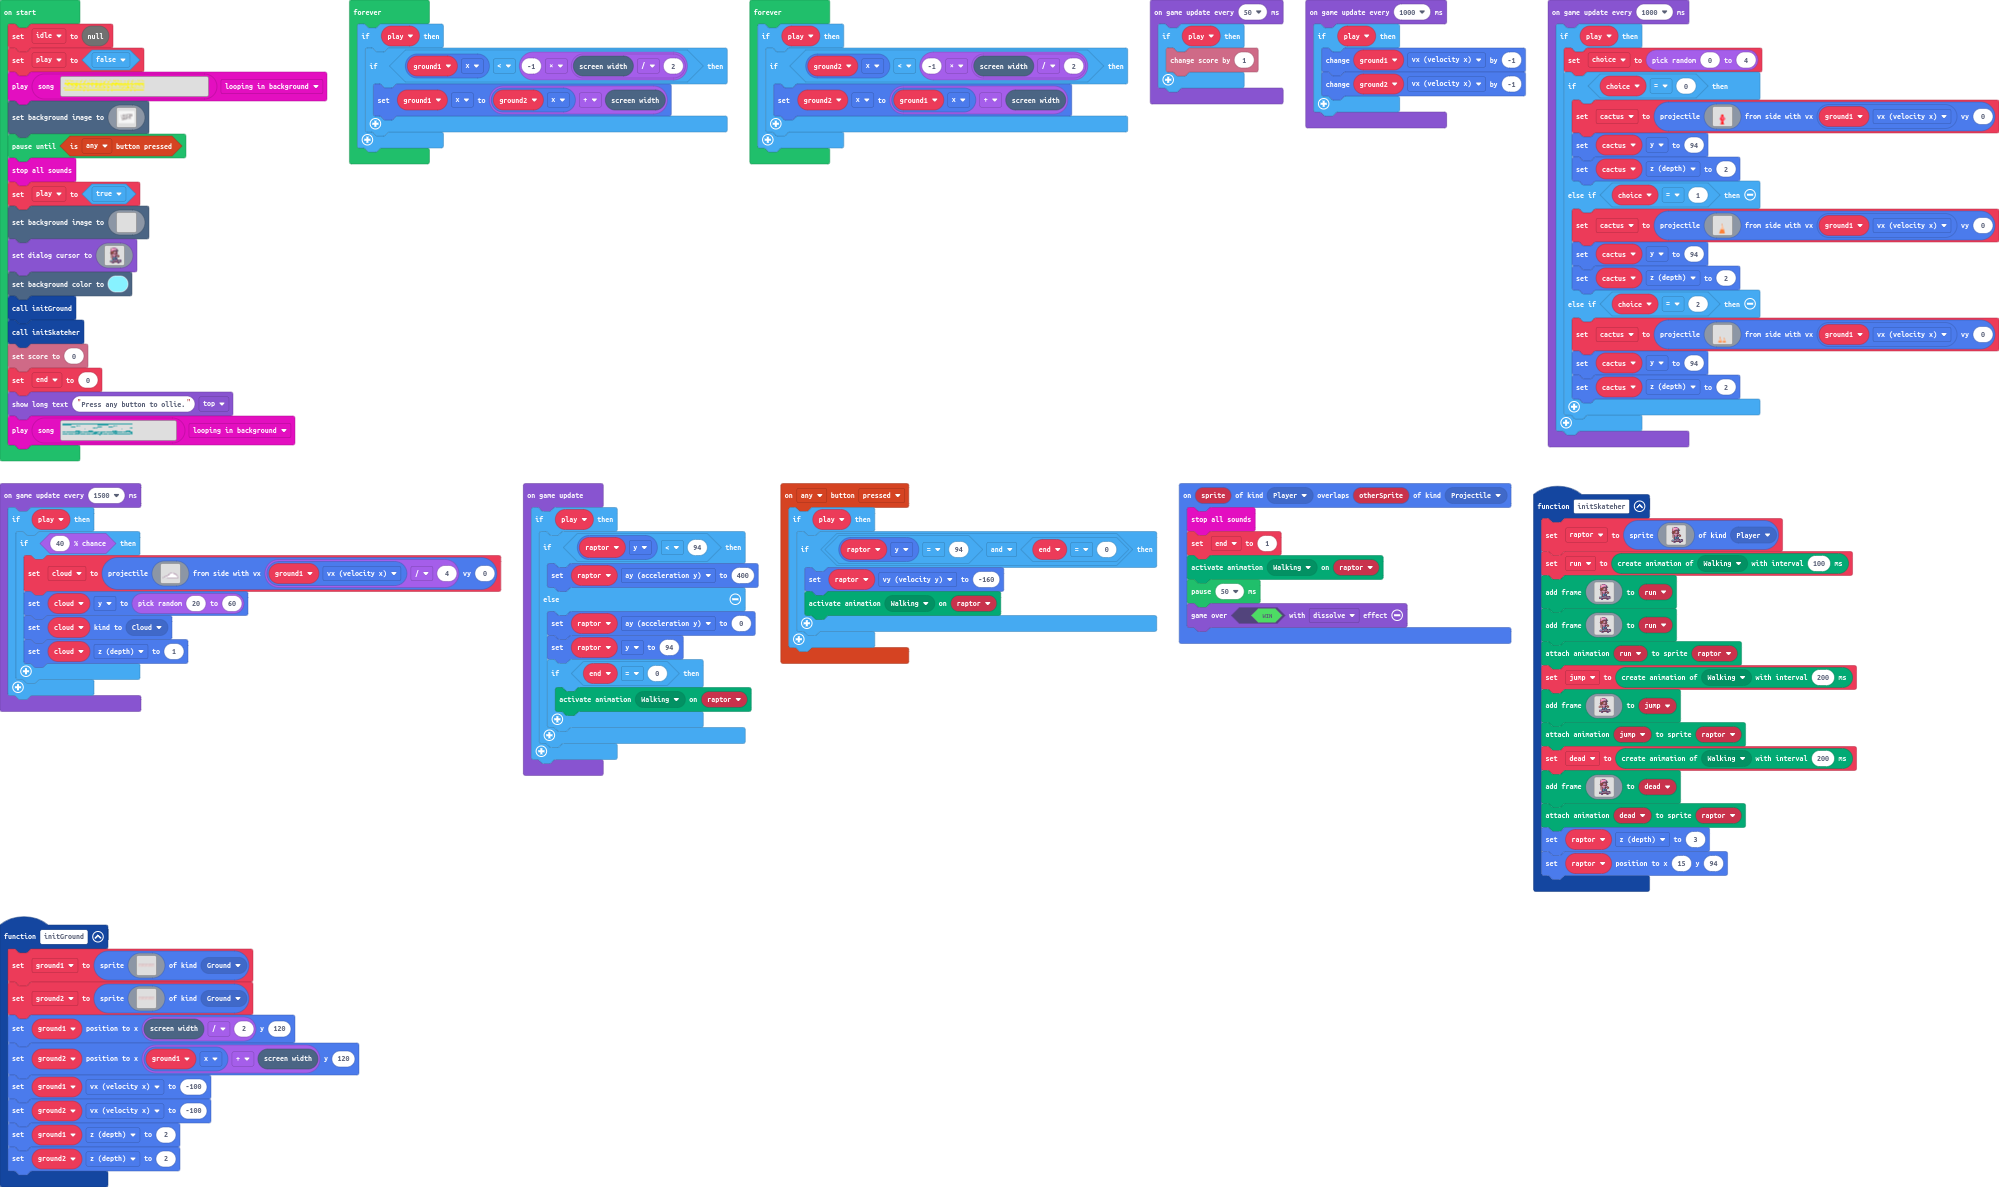
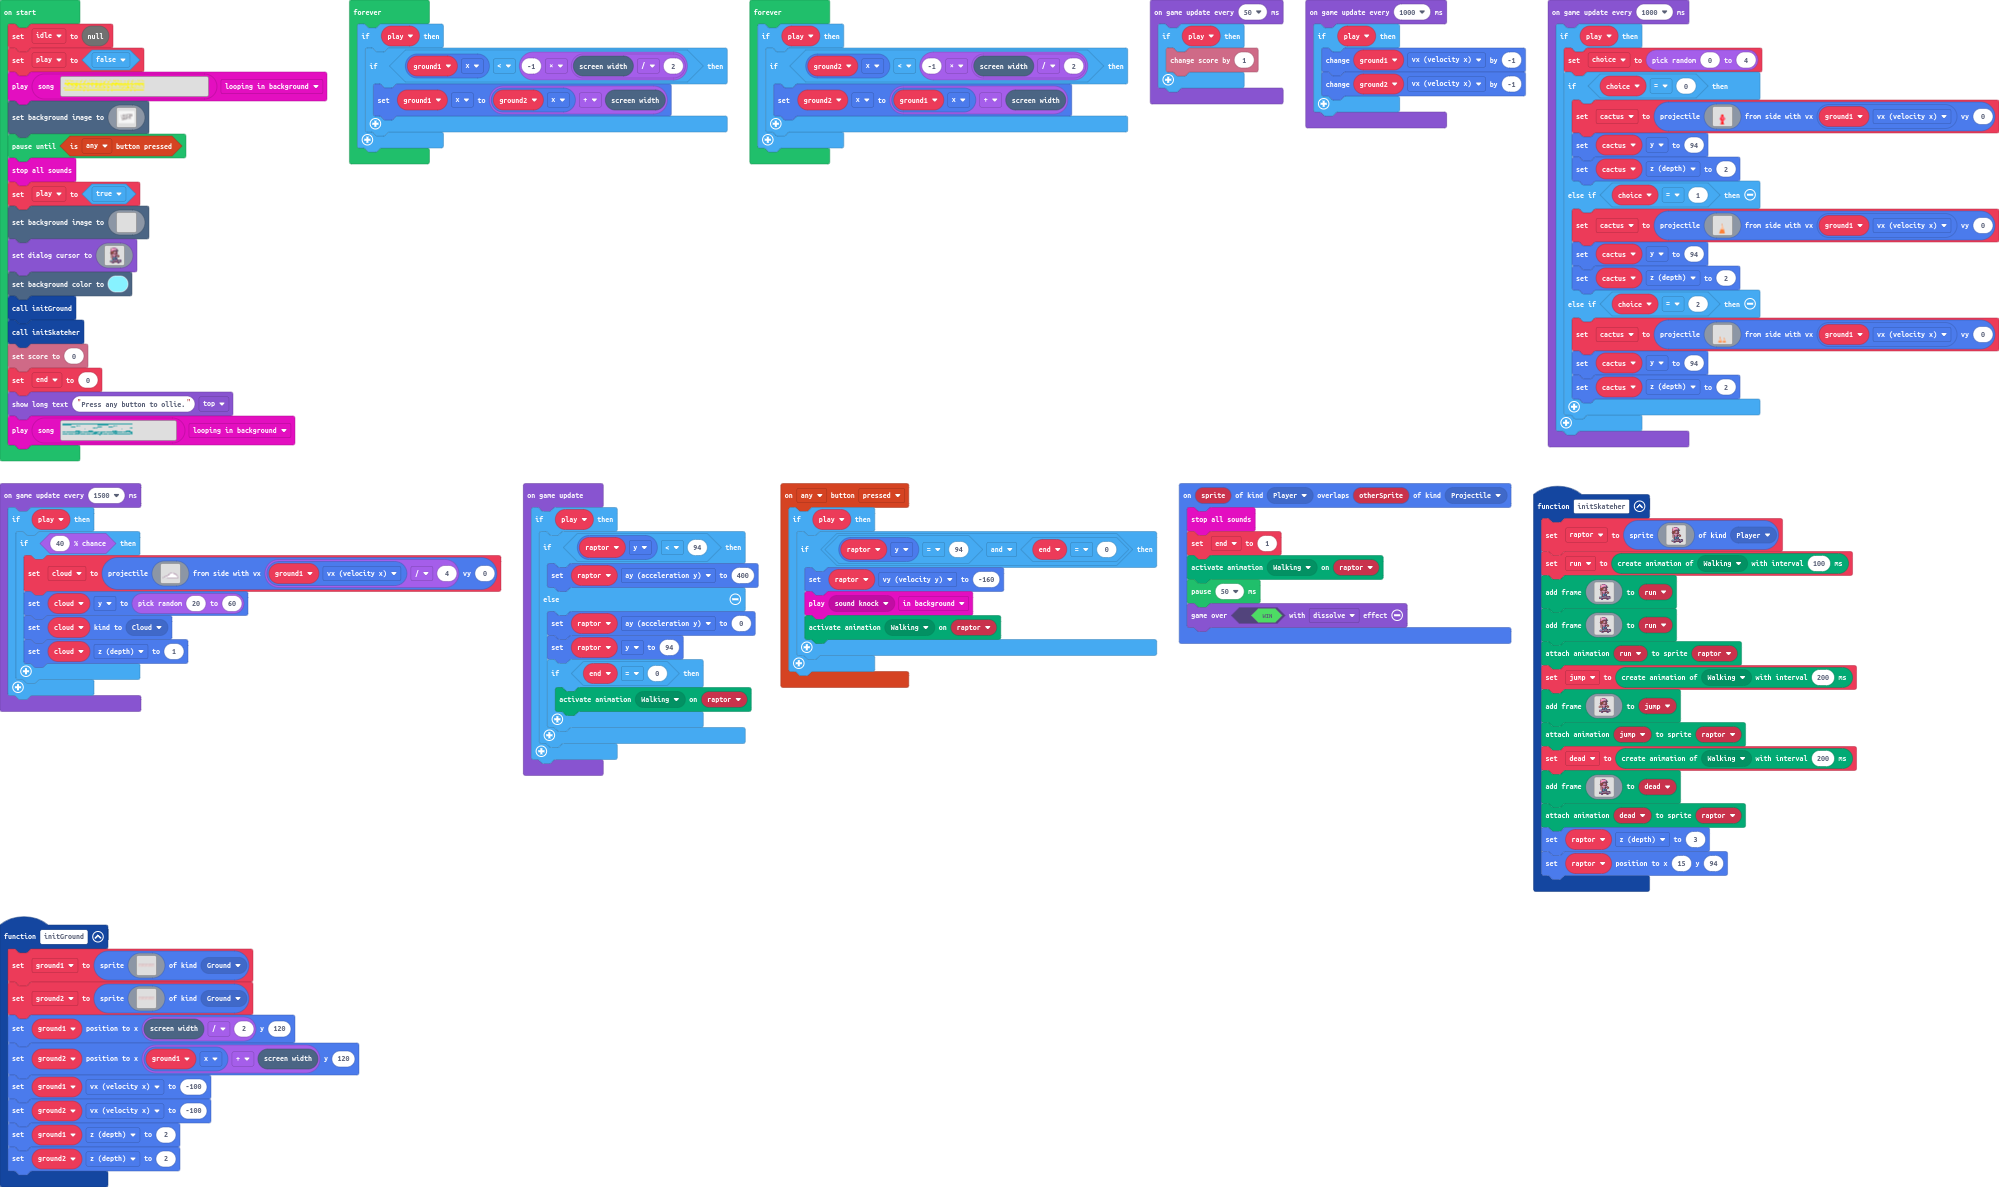
pop

Changed region(s): [[0.3722, 0.4987, 0.5893, 0.5922]]

diff --git a/main.ts b/main.ts
@@ -22,6 +22,7 @@ controller.anyButton.onEvent(ControllerButtonEvent.Pressed, function () {
     if (play) {
         if (raptor.y == 94 && end == 0) {
             raptor.vy = -160
+            music.play(music.melodyPlayable(music.knock), music.PlaybackMode.InBackground)
             animation.setAction(raptor, ActionKind.Jumping)
         }
     }
